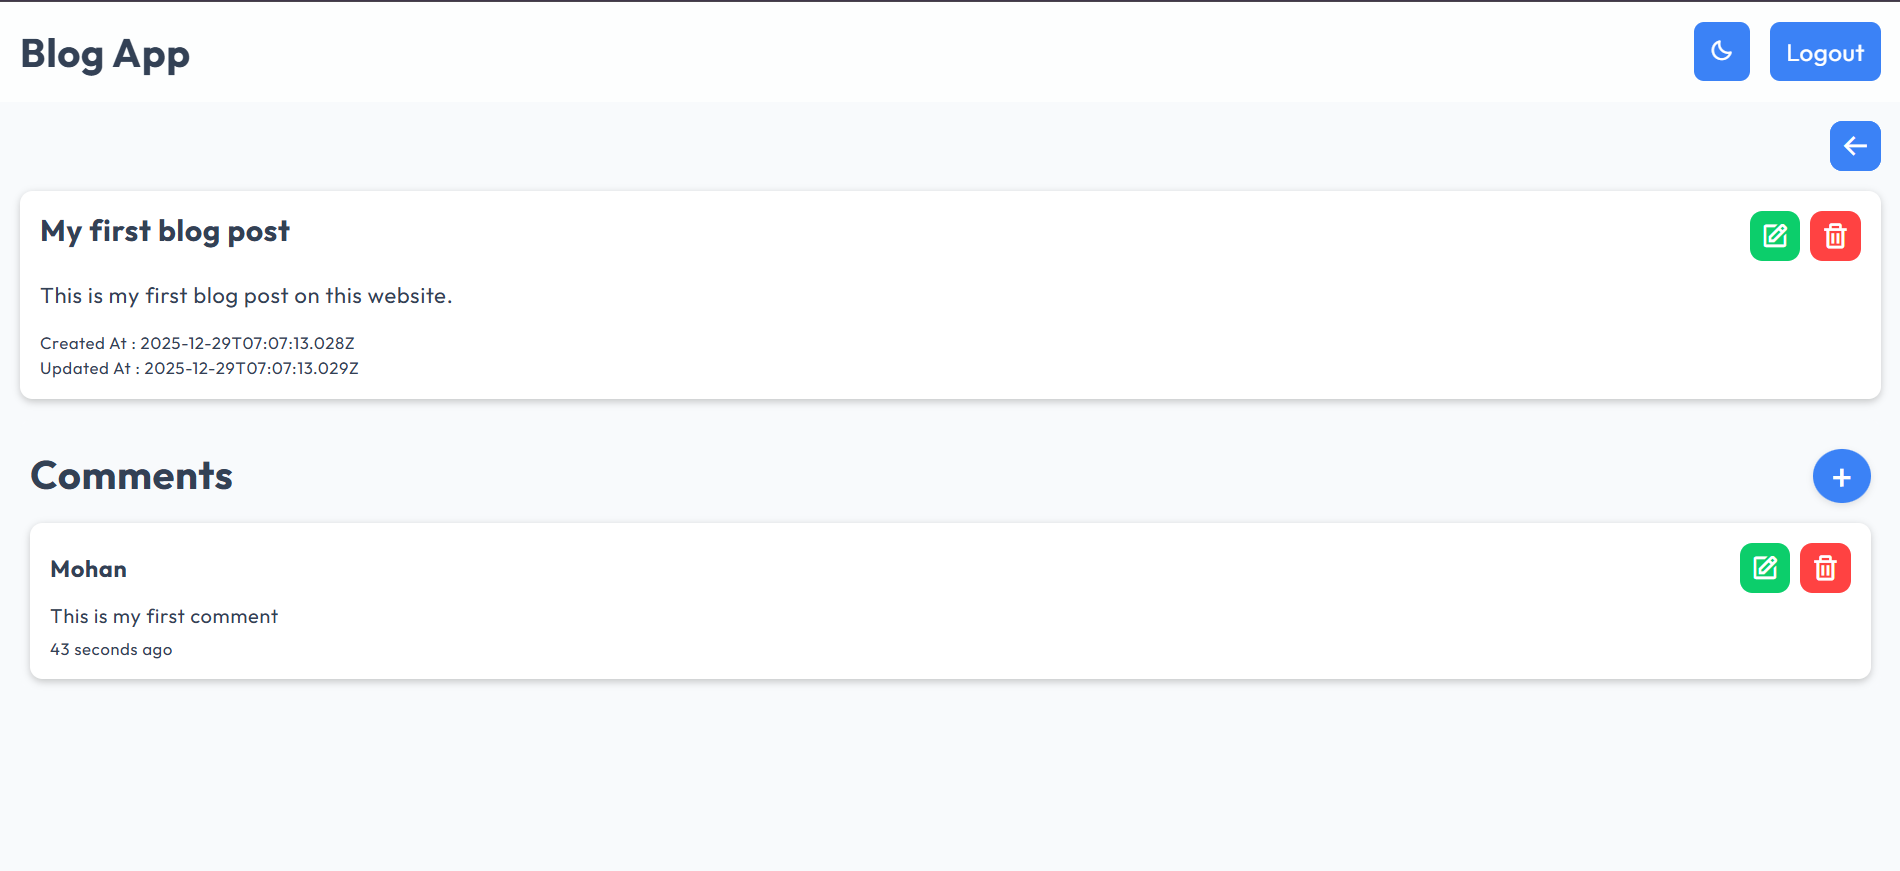
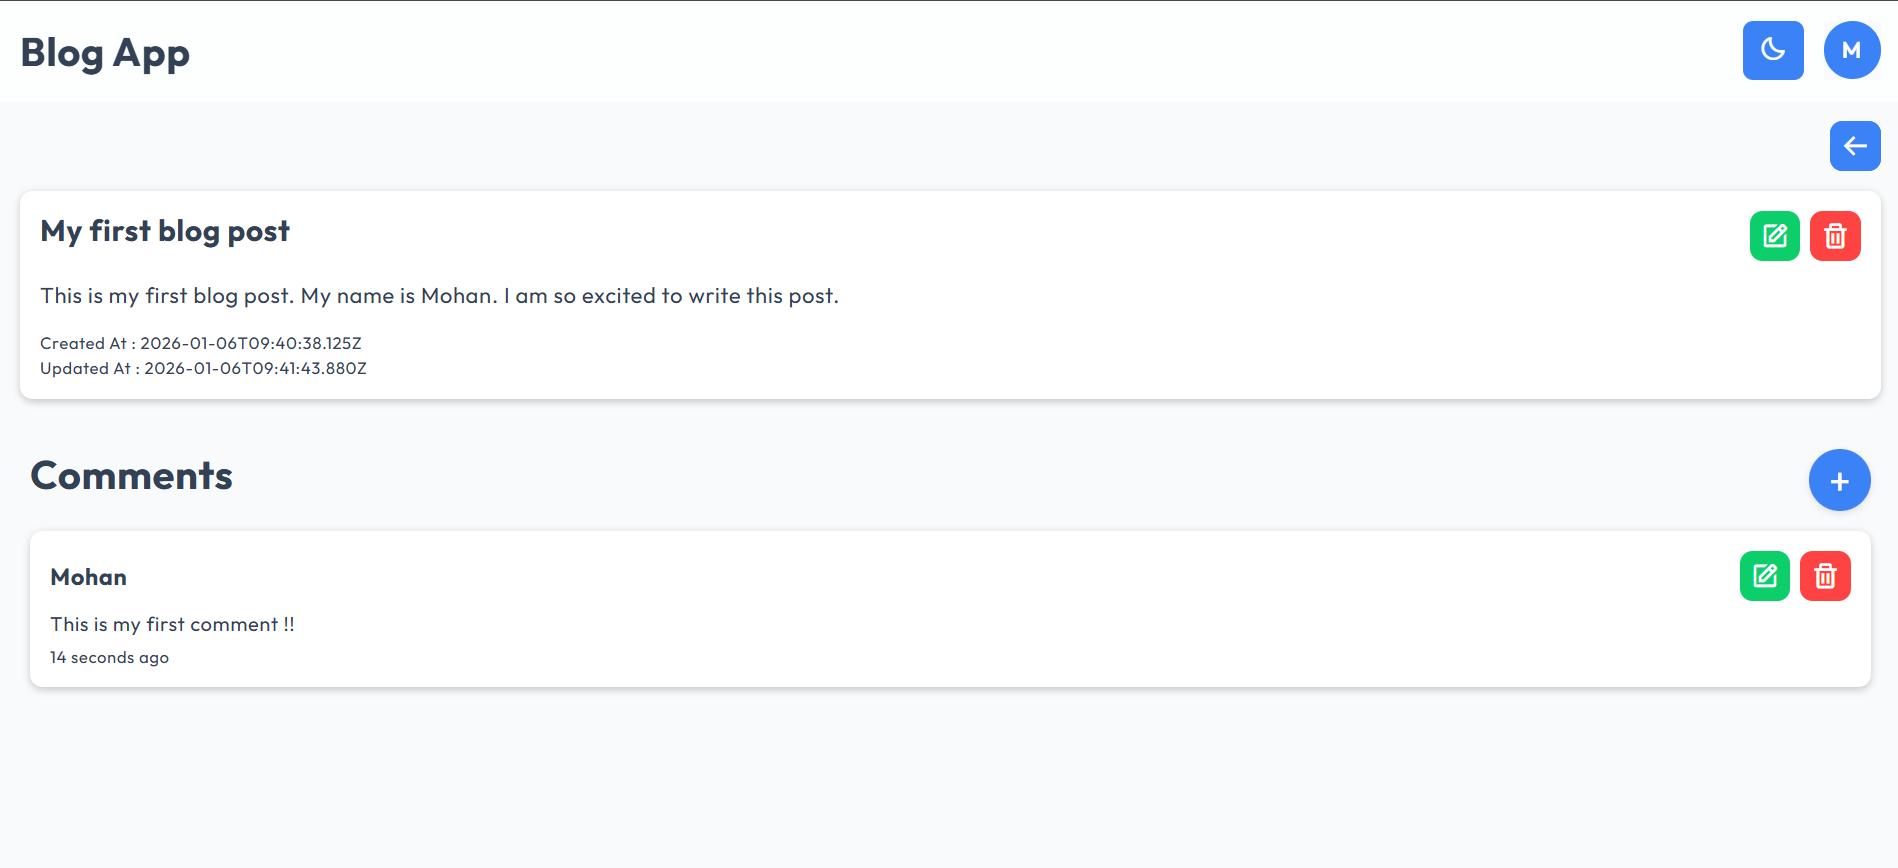
Update README file

diff --git a/README.md b/README.md
@@ -1,6 +1,8 @@
 # 📝 MERN Blog App
 
-A full-stack blogging application built using the MERN stack (MongoDB, Express, React, and Node.js). Users can register, log in, create posts, edit them, and delete them. The app also supports JWT-based authentication and dynamic routing.
+This is a full-stack blogging application developed using the MERN stack—MongoDB, Express, React, and Node.js. It allows users to securely register and log in, create blog posts, edit existing content, and delete posts when needed.
+
+The application implements JWT-based authentication to protect user data and restrict access to authorized actions. It also features dynamic routing for seamless navigation between pages, along with a responsive and user-friendly interface.
 
 ## 🔗 Live Site URL : [Click Here](https://vryeshwanth.github.io/Blog-Post-App/)
 
@@ -19,81 +21,117 @@ A full-stack blogging application built using the MERN stack (MongoDB, Express, 
 
 ## ✨ Features
 
--   User registration and login
--   Create, read, edit, and delete blog posts
--   View individual post details
--   Authentication using JWT tokens
+-   Secure user authentication with registration and login
+-   Full CRUD functionality for blog posts
+-   Detailed individual post view
+-   JWT based Authentication and Authorization
 -   Context-based state management for posts and notifications
--   Responsive UI
+-   Fully Responsive User Interface
 -   Support for Light and Dark themes
--   Post like feature
+-   Like system for posts
 -   Reusable global loader component
+-   Menu dropdown for quick access to profile, dashboard and logout options
+-   Account deletion option with confirmation handling
 
 ## 📁 Project Structure
 
 ```
-Directory structure:
-└── Blog-Post-App/
-    ├── backend/
-    │   ├── controllers/
-    │   │   ├── authController.js
-    │   │   ├── commentController.js
-    │   │   └── postController.js
-    │   ├── middleware/
-    │   │   └── authMiddleware.js
-    │   ├── models/
-    │   │   ├── Comment.js
-    │   │   ├── Post.js
-    │   │   └── User.js
-    │   ├── package-lock.json
-    │   ├── package.json
-    │   ├── routes/
-    │   │   ├── authRoutes.js
-    │   │   ├── commentRoutes.js
-    │   │   └── postRoutes.js
-    │   └── server.js
-    ├── frontend/
-    │   ├── context/
-    │   │   ├── AuthContext.jsx
-    │   │   ├── LoaderContext.jsx
-    │   │   ├── NotificationContext.jsx
-    │   │   ├── PostsContext.jsx
-    │   │   └── ThemeContext.jsx
-    │   ├── eslint.config.js
-    │   ├── index.html
-    │   ├── package-lock.json
-    │   ├── package.json
-    │   ├── screenshots/
-    │   │   ├── AddPostPage.png
-    │   │   ├── Comment_Section.png
-    │   │   ├── EditPostPage.png
-    │   │   ├── HomePage.png
-    │   │   ├── HomePage_Login.png
-    │   │   ├── LoginPage.png
-    │   │   ├── PostDetails.png
-    │   │   └── RegisterPage.png
-    │   ├── src/
-    │   │   ├── App.jsx
-    │   │   ├── components/
-    │   │   │   ├── Comment.jsx
-    │   │   │   ├── CommentList.jsx
-    │   │   │   ├── Loader.jsx
-    │   │   │   ├── Navbar.jsx
-    │   │   │   └── Notification.jsx
-    │   │   ├── main.jsx
-    │   │   ├── pages/
-    │   │   │   ├── CreatePost.jsx
-    │   │   │   ├── EditPost.jsx
-    │   │   │   ├── HomePage.jsx
-    │   │   │   ├── Login.jsx
-    │   │   │   ├── PostDetails.jsx
-    │   │   │   └── Register.jsx
-    │   │   ├── styles.css
-    │   │   └── utils/
-    │   │       ├── axios.js
-    │   │       └── formatTime.js
-    │   └── vite.config.js
-    └── README.md
+Blog-Post-App/
+├── backend/
+│   ├── controllers/
+│   │   ├── authController.js
+│   │   ├── commentController.js
+│   │   ├── dashboardController.js
+│   │   ├── postController.js
+│   │   └── profileController.js
+│   ├── middleware/
+│   │   └── authMiddleware.js
+│   ├── models/
+│   │   ├── Comment.js
+│   │   ├── Post.js
+│   │   └── User.js
+│   ├── package-lock.json
+│   ├── package.json
+│   ├── routes/
+│   │   ├── authRoutes.js
+│   │   ├── commentRoutes.js
+│   │   ├── dashboardRoutes.js
+│   │   ├── postRoutes.js
+│   │   └── profileRoutes.js
+│   └── server.js
+├── frontend/
+│   ├── context/
+│   │   ├── AuthContext.jsx
+│   │   ├── LoaderContext.jsx
+│   │   ├── NotificationContext.jsx
+│   │   ├── PostsContext.jsx
+│   │   └── ThemeContext.jsx
+│   ├── eslint.config.js
+│   ├── index.html
+│   ├── package-lock.json
+│   ├── package.json
+│   ├── screenshots/
+│   │   ├── AddPostPage.png
+│   │   ├── Comment_Section.png
+│   │   ├── EditPostPage.png
+│   │   ├── HomePage.png
+│   │   ├── HomePage_Login.png
+│   │   ├── LoginPage.png
+│   │   ├── PostDetails.png
+│   │   └── RegisterPage.png
+│   ├── src/
+│   │   ├── App.jsx
+│   │   ├── components/
+│   │   │   ├── Avatar/
+│   │   │   │   ├── Avatar.css
+│   │   │   │   └── Avatar.jsx
+│   │   │   ├── Comment/
+│   │   │   │   ├── Comment.jsx
+│   │   │   │   ├── CommentList.jsx
+│   │   │   │   └── CommentStyles.css
+│   │   │   ├── Loader/
+│   │   │   │   ├── Loader.css
+│   │   │   │   └── Loader.jsx
+│   │   │   ├── Navbar/
+│   │   │   │   ├── Navbar.css
+│   │   │   │   └── Navbar.jsx
+│   │   │   └── Notification/
+│   │   │       ├── Notification.css
+│   │   │       └── Notification.jsx
+│   │   ├── main.jsx
+│   │   ├── pages/
+│   │   │   ├── CreatePost/
+│   │   │   │   ├── CreatePost.css
+│   │   │   │   └── CreatePost.jsx
+│   │   │   ├── Dashboard/
+│   │   │   │   ├── Dashboard.css
+│   │   │   │   ├── Dashboard.jsx
+│   │   │   │   └── StatisticCard.jsx
+│   │   │   ├── EditPost/
+│   │   │   │   ├── EditPost.css
+│   │   │   │   └── EditPost.jsx
+│   │   │   ├── HomePage/
+│   │   │   │   ├── HomePage.css
+│   │   │   │   └── HomePage.jsx
+│   │   │   ├── Login/
+│   │   │   │   ├── Login.css
+│   │   │   │   └── Login.jsx
+│   │   │   ├── PostDetails/
+│   │   │   │   ├── PostDetails.css
+│   │   │   │   └── PostDetails.jsx
+│   │   │   ├── Profile/
+│   │   │   │   ├── Profile.css
+│   │   │   │   └── Profile.jsx
+│   │   │   └── Register/
+│   │   │       ├── Register.css
+│   │   │       └── Register.jsx
+│   │   ├── styles.css
+│   │   └── utils/
+│   │       ├── axios.js
+│   │       ├── formatDate.js
+│   │       └── formatTime.js
+│   └── vite.config.js
+└── README.md
 ```
 
 ## ⚙ Setup Instructions
@@ -154,15 +192,45 @@ The app will run on :
 
 ## 🔗 API Endpoints
 
-| Method | Endpoint           | Description         | Auth Required |
-| ------ | ------------------ | ------------------- | ------------- |
-| POST   | /api/auth/register | Register a new user | ❌ No         |
-| POST   | /api/auth/login    | Log in a user       | ❌ No         |
-| GET    | /api/posts         | Get all posts       | ❌ No         |
-| GET    | /api/posts/:id     | Get post by ID      | ❌ No         |
-| POST   | /api/posts         | Create new post     | ✅ Yes        |
-| PATCH  | /api/posts/:id     | Edit a post         | ✅ Yes        |
-| DELETE | /api/posts/:id     | Delete a post       | ✅ Yes        |
+## 🔐 Authentication Routes
+
+| Method | Endpoint             | Description             |
+| ------ | -------------------- | ----------------------- |
+| POST   | `/api/auth/register` | Register a new user     |
+| POST   | `/api/auth/login`    | Log in an existing user |
+
+## 👤 User / Profile Routes
+
+| Method | Endpoint       | Description                                      |
+| ------ | -------------- | ------------------------------------------------ |
+| GET    | `/api/profile` | Get the logged-in user profile                   |
+| PATCH  | `/api/profile` | Update the profile details of the logged-in user |
+| DELETE | `/api/profile` | Delete the user account                          |
+
+## 📝 Post Routes
+
+| Method | Endpoint              | Description             |
+| ------ | --------------------- | ----------------------- |
+| GET    | `/api/posts`          | Fetch all posts         |
+| POST   | `/api/posts`          | Create a new post       |
+| PATCH  | `/api/posts/:id`      | Update an existing post |
+| DELETE | `/api/posts/:id`      | Delete a post           |
+| PATCH  | `/api/posts/:id/like` | Like or unlike a post   |
+
+## 💬 Comment Routes
+
+| Method | Endpoint                | Description                        |
+| ------ | ----------------------- | ---------------------------------- |
+| GET    | `/api/comments/:postId` | Fetch all comments of a given post |
+| POST   | `/api/comments`         | Add a comment to a post            |
+| PATCH  | `/api/comments/:id`     | Update an existing comment         |
+| DELETE | `/api/comments/:id`     | Delete a comment                   |
+
+## 📊 Dashboard Routes
+
+| Method | Endpoint         | Description                   |
+| ------ | ---------------- | ----------------------------- |
+| GET    | `/api/dashboard` | Fetch dashboard overview data |
 
 ## 📸 App Preview
 
@@ -171,6 +239,7 @@ Here are some screenshots of the MERN Blog App in action:
 ### Home Page
 
 **Before Login:**
+
 ![Home Page](./frontend/screenshots/HomePage.png)
 
 ### Register Page
@@ -184,6 +253,7 @@ Here are some screenshots of the MERN Blog App in action:
 ### Home Page
 
 **After Login:**
+
 ![HomePage - Logged In](./frontend/screenshots/HomePage_Login.png)
 
 ### Post Details
@@ -201,6 +271,14 @@ Here are some screenshots of the MERN Blog App in action:
 ### Comment Section
 
 ![Comment Section](./frontend/screenshots/Comment_Section.png)
+
+### Profile Section
+
+![Profile Section](./frontend/screenshots/Profile_Section.png)
+
+### Dashboard Section
+
+![Dashboard Section](./frontend/screenshots/Dashboard_Section.png)
 
 ## 🤝 Contributing
 
